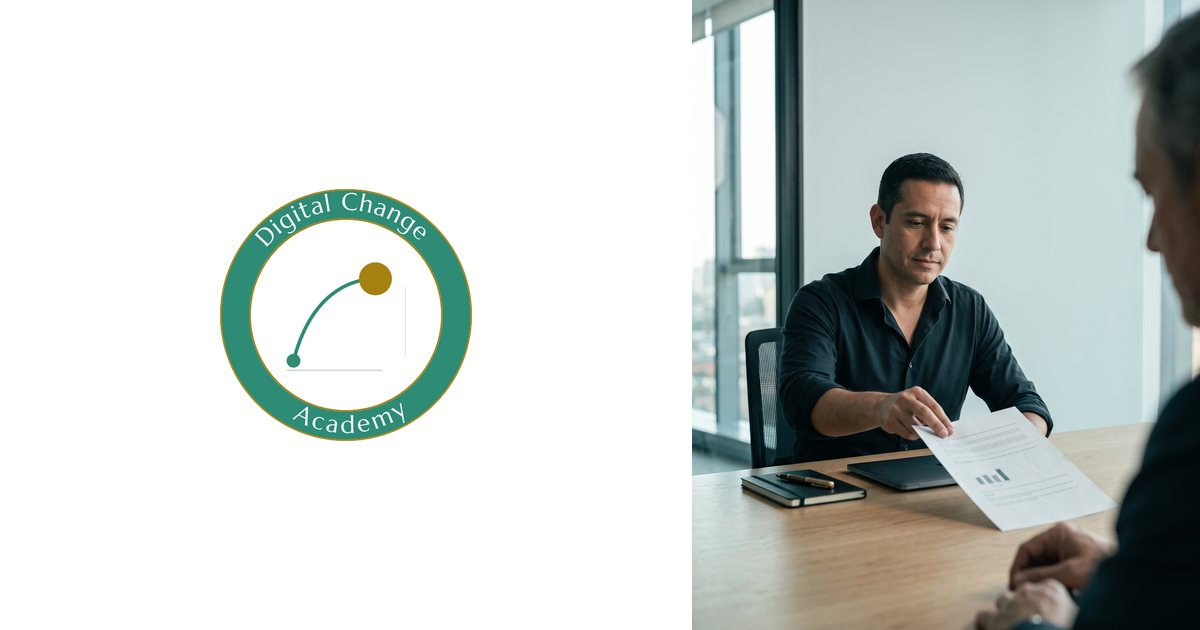
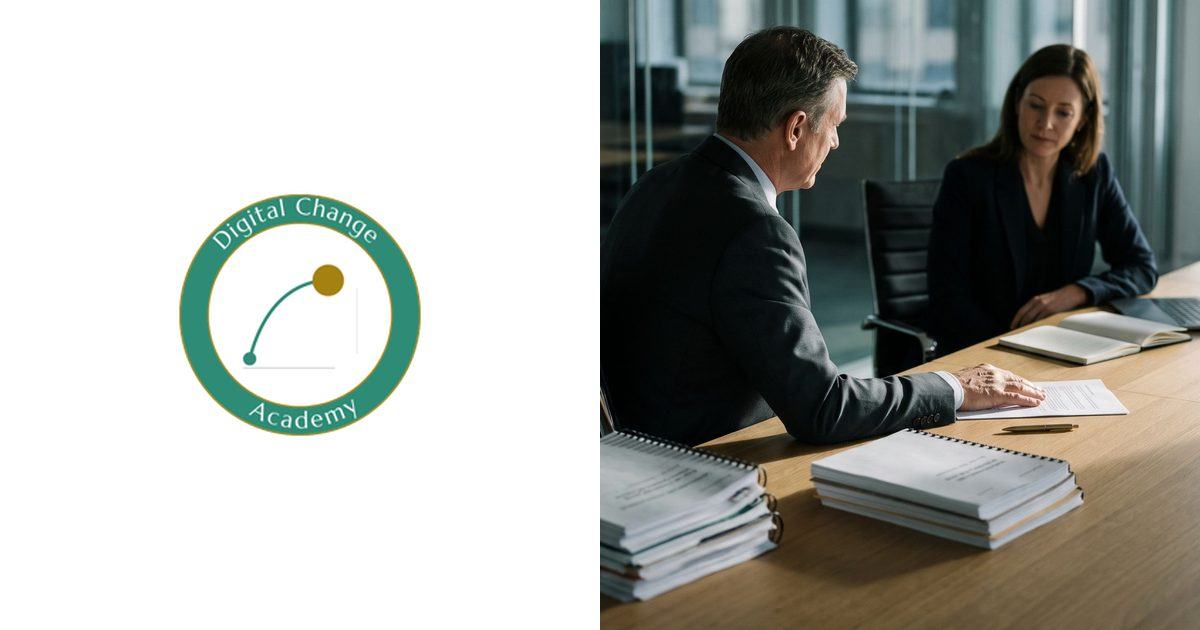
design(adn-ia-consultores): nueva imagen del hero y vista previa social
Claude-Session: https://claude.ai/code/session_01WtM4EMqrDEesRtuUKFpyGQ

diff --git a/adn-ia-consultores.html b/adn-ia-consultores.html
@@ -312,8 +312,8 @@
       </div>
 
       <div class="hero-figure" data-reveal data-parallax="0.12">
-        <picture><source srcset="assets/adn-ia-consultores-hero.webp" type="image/webp"><img src="assets/adn-ia-consultores-hero.jpg" alt="Consultor de Cultura y Cambio entrega a un líder de negocio un documento de una página, en una sala de reuniones con ventanal" width="960" height="1192" loading="eager"></picture>
-        <span class="hero-figure__cap">Cultura y Cambio &middot; TI</span>
+        <picture><source srcset="assets/adn-ia-consultores-hero.webp" type="image/webp"><img src="assets/adn-ia-consultores-hero.jpg" alt="Un ejecutivo y una consultora en una sala de reuniones con paredes de vidrio: él apoya la mano sobre un documento de una página, frente a dos pilas de expedientes sobre la mesa" width="960" height="1192" loading="eager"></picture>
+        <span class="hero-figure__cap">Líderes de IA &middot; Cultura y Cambio</span>
       </div>
     </div>
   </div>

diff --git a/CLAUDE.md b/CLAUDE.md
@@ -292,6 +292,7 @@ El usuario confirmó la nota pendiente de arriba, pero con un criterio más ampl
   - **Testimonios, textos del encabezado (2026-10-25):** rótulo «Lo que dicen los graduados de la Digital Change Academy»; H2 «Consultores que ya se certificaron con nuestra academia.»; chapeau «Sus testimonios hablan de programas en los frameworks ágiles de DCA: el mismo equipo y el mismo estándar que esta certificación.» (antes «…programas anteriores de la academia…»; el encuadre sigue sin nombrar MATCH ni títulos internos).
   - **Hero reestructurado (2026-10-25):** el logo de la academia y «Certificación Cultura y Cambio ADN IA» (`.adn-marca`) salen de la columna de texto y pasan a una cabecera a todo el ancho, centrada, dentro de `.hero__inner`; debajo siguen las dos columnas actuales (texto 1.36fr / imagen 0.64fr) sin cambio. Separación de 44px entre la firma de marca y el H1. Verificado sin desbordes a 390, 1024 y 1440px. Pendiente: reemplazar la imagen del hero (prompt de Nano Banana entregado; máster 4:5 a archivar en `_image-masters/website/`, derivados 960×1192 y OG propia a regenerar).
   - **«Qué incluye», dos viñetas (2026-10-25):** «Primera cohorte exclusiva, con el autor.» (antes «Un grupo exclusivo, con el autor.») y «Anticípate y lidera el mercado.» (antes «Llegas antes.»). Imagen nueva del hero: el propietario la indicó en una ruta de su Mac (`~/Desktop/Imagen certificación ADN IA Consultores.jpeg`), inaccesible desde la sesión en la nube; pendiente de que llegue al repositorio.
+  - **Imagen del hero reemplazada (2026-10-25):** nueva escena (prompt de Nano Banana v2): un ejecutivo en tres cuartos de espalda apoya la mano sobre un documento de una página, con dos pilas de expedientes en primer plano y una consultora sentada a su lado, en una sala de vidrio. Revisada contra el brief: sin texto legible (hojas y portadas de los expedientes son trazos ilegibles; la pantalla del portátil, difusa), bolígrafo dorado como único acento cálido, oficina sobria. Máster 1611×2000 en `_image-masters/website/adn-ia-consultores-hero-v2.jpeg` (el anterior, `adn-ia-consultores-hero.jpeg`, se conserva como histórico); derivados 960×1192 en `assets/adn-ia-consultores-hero.{webp,jpg}` (≈62/104 KB, mismos nombres, sin cambio de HTML salvo el alt); el recorte vertical 3:5 del hero conserva ambas personas, la mano y las pilas. Alt nuevo: «Un ejecutivo y una consultora en una sala de reuniones con paredes de vidrio: él apoya la mano sobre un documento de una página, frente a dos pilas de expedientes sobre la mesa». Rótulo de la foto: «Líderes de IA · Cultura y Cambio» (antes «Cultura y Cambio · TI»; alineado con la audiencia unificada). Vista previa social `og-adn-ia-consultores.jpg` regenerada (1200×630: logo de la academia sobre blanco a la izquierda, escena a la derecha).
   - **H1 en pirámide sin quiebre:** en ≥1024px el hero usa columnas `1.3fr 0.7fr`, H1 `clamp(30px, 2.55vw, 38px)` y `.line { white-space: nowrap }` — cada línea en un renglón (medido 1024–1920px, L1 ≥ L2 ≥ L3, sin desborde). Reemplaza el `clamp(30px, 3.4vw, 44px)` anterior, que partía las 3 líneas en 6 renglones. En <1024px las líneas se parten (inevitable a tamaño legible).
   - CTA del hero a 32px de los datos; separadores `.sep` de la nota del formulario con estilo propio (la regla vivía en `styles-nosotros2.css`, que esta página no carga); calculadora y «Qué incluye» a ancho completo (lista a 2 columnas); «Tu modelo se queda» con los 3 supuestos como tarjetas (`.adn-supuestos`); inputs y selects a 50px; pies de testimonio alineados con `subgrid`.
   - **CTA en móvil:** el tramo más largo sin CTA (para-quien → recuperas) mide 3.466px a 390px (antes 3.420). A 360px ya medía 3.560px antes de este ajuste — exceso preexistente, sin empeorar.
